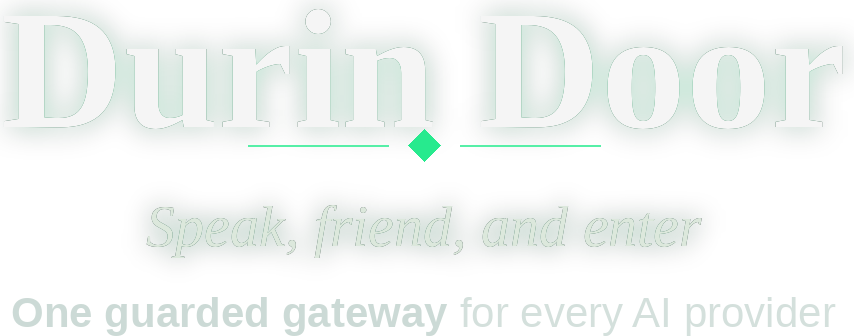
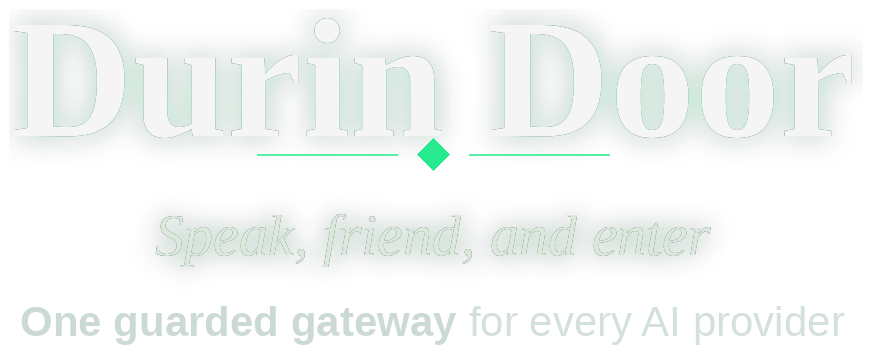
feat(auth): gate password change UI on one-time proof, redact request payloads

diff --git a/src/app/login/page.js b/src/app/login/page.js
@@ -16,6 +16,7 @@ export default function LoginPage() {
   const [oidcConfigured, setOidcConfigured] = useState(false);
   const [oidcLoginLabel, setOidcLoginLabel] = useState("Sign in with OIDC");
   const [mustChange, setMustChange] = useState(false);
+  const [passwordChangeProof, setPasswordChangeProof] = useState("");
   const [newPassword, setNewPassword] = useState("");
 
   // Countdown for rate-limit
@@ -45,7 +46,8 @@ export default function LoginPage() {
 
         setHasPassword(!!data.hasPassword);
         setUsingDefaultPassword(
-          data.usingDefaultPassword === true && data.authMode === "password",
+          data.usingDefaultPassword === true &&
+            (data.authMode === "password" || data.authMode === "both"),
         );
         setAuthMode(data.authMode || "password");
         setOidcConfigured(data.oidcConfigured === true);
@@ -57,12 +59,13 @@ export default function LoginPage() {
     }
     checkAuth();
   }, []);
-
   const handleLogin = async (e) => {
     e.preventDefault();
     setLoading(true);
     setError("");
     setResetHint("");
+    setMustChange(false);
+    setPasswordChangeProof("");
 
     try {
       const res = await fetch("/api/auth/login", {
@@ -71,19 +74,27 @@ export default function LoginPage() {
         body: JSON.stringify({ password }),
       });
 
-      if (res.ok) {
-        const data = await res.json();
-        if (data.mustChangePassword) {
-          setMustChange(true);
-          return;
+      const data = await res.json().catch(() => ({}));
+
+      // Forced password change responses come back as HTTP 403 with a
+      // proof. Parse before any `res.ok` branch so we never silently
+      // redirect a default-password client to /dashboard.
+      if (data.mustChangePassword) {
+        if (data.requiresPasswordChange && data.proof) {
+          setPasswordChangeProof(data.proof);
         }
-        window.location.assign("/dashboard");
-      } else {
-        const data = await res.json();
-        setError(data.error || "Invalid password");
-        if (data.resetHint) setResetHint(data.resetHint);
-        if (data.retryAfter) setRetryAfter(Number(data.retryAfter));
+        setMustChange(true);
+        return;
       }
+
+      if (res.ok) {
+        window.location.assign("/dashboard");
+        return;
+      }
+
+      setError(data.error || "Invalid password");
+      if (data.resetHint) setResetHint(data.resetHint);
+      if (data.retryAfter) setRetryAfter(Number(data.retryAfter));
     } catch (err) {
       setError("An error occurred. Please try again.");
     } finally {
@@ -91,23 +102,24 @@ export default function LoginPage() {
     }
   };
 
-  // Force a new password before entering the dashboard (default + remote).
+  // Forced default-password flow receives a one-time local proof rather
+  // than dashboard authentication. It can only be spent on this endpoint.
   const handleSetNewPassword = async (e) => {
     e.preventDefault();
     setLoading(true);
     setError("");
     try {
-      const res = await fetch("/api/settings", {
-        method: "PATCH",
+      const res = await fetch("/api/auth/change-password", {
+        method: "POST",
         headers: { "Content-Type": "application/json" },
-        body: JSON.stringify({ currentPassword: password, newPassword }),
+        body: JSON.stringify({ proof: passwordChangeProof, newPassword }),
       });
+      const data = await res.json().catch(() => ({}));
       if (res.ok) {
         window.location.assign("/dashboard");
-      } else {
-        const data = await res.json();
-        setError(data.error || "Failed to set password");
+        return;
       }
+      setError(data.error || "Failed to set password");
     } catch (err) {
       setError("An error occurred. Please try again.");
     } finally {
@@ -140,14 +152,16 @@ export default function LoginPage() {
       <div className="landing-grid absolute inset-0 pointer-events-none" aria-hidden="true" />
       <div className="relative z-10 w-full max-w-md">
         <div className="text-center mb-8">
-          <Image
-            src="/durindoor-wordmark.png"
-            alt="DurinDoor"
-            width={854}
-            height={336}
-            priority
-            className="mx-auto h-auto w-72 max-w-full"
-          />
+          <h1>
+            <Image
+              src="/durindoor-wordmark.png"
+              alt="DurinDoor"
+              width={872}
+              height={354}
+              priority
+              className="mx-auto h-auto w-72 max-w-full"
+            />
+          </h1>
           <p className="text-text-muted">
             {authMode === "oidc" && oidcConfigured
               ? "Sign in with your OIDC provider to access the dashboard"
@@ -156,7 +170,7 @@ export default function LoginPage() {
         </div>
 
         <Card>
-          {mustChange ? (
+          {mustChange && passwordChangeProof ? (
             <form onSubmit={handleSetNewPassword} className="flex flex-col gap-4">
               <p className="text-sm text-amber-600 dark:text-amber-400 text-center">
                 Set a new password before accessing the dashboard remotely.
@@ -177,6 +191,12 @@ export default function LoginPage() {
                 Set password
               </Button>
             </form>
+          ) : mustChange ? (
+            <p className="text-sm text-amber-600 dark:text-amber-400 text-center">
+              This dashboard is still using the default password. Sign in from
+              the local machine to set a new password before remote access is
+              allowed.
+            </p>
           ) : (
           <div className="flex flex-col gap-4">
             {oidcAvailable && (

diff --git a/src/app/api/usage/request-details/route.js b/src/app/api/usage/request-details/route.js
@@ -2,10 +2,10 @@ import { NextResponse } from "next/server";
 import { getRequestDetails } from "@/lib/usageDb";
 
 const SENSITIVE_PAYLOAD_FIELDS = new Set([
-  "requestBody",
-  "providerRequestBody",
-  "providerResponseBody",
-  "responseBody",
+  "request",
+  "providerRequest",
+  "providerResponse",
+  "response",
 ]);
 
 function redactPayloads(result) {

diff --git a/docs/operations/security.md b/docs/operations/security.md
@@ -155,6 +155,14 @@ Use:
 ENABLE_REQUEST_LOGS=false
 ```
 
+### Default dashboard password
+
+When effective dashboard password is built-in `123456`, remote login returns
+`403` before a session cookie is issued. A loopback login receives a five-minute,
+IP-bound, one-time proof which can only set a replacement password through
+`POST /api/auth/change-password`. That endpoint creates a dashboard session only
+after persisting the new password.
+
 Enable detailed logs only for short debugging windows. If logs must be retained, define retention, access, and deletion policies.
 
 ## Tunnels and Public URLs
